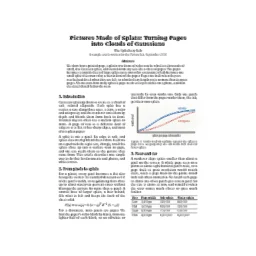
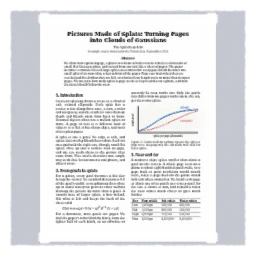
Pictures: a thin gray card behind the Picture lab's picture, the whole box in view, and no blank frames on a sheet swap
- The Picture lab gets a smooth gray card behind its picture (two
  staggered lattices of flat discs): a white page gets an edge on a white
  background, and the toy has splats of its own (kit.spec needs them).
- Its camera starts at 3.2 radii, so a landscape picture fits a phone.
- A sheet that moves to a bigger container keeps the old one on show for
  six frames, while the engine sorts the new splats.
- The phone test runs at twice the pixels and waits for the sort.

Claude-Session: https://claude.ai/code/session_012vWQFKrJXpFPjhzRqN3ZYV

diff --git a/src/packs/pictures.js b/src/packs/pictures.js
@@ -11,6 +11,8 @@ export const RECIPES = {
     // A flat sheet that shows whatever you open, and nothing else. It keeps
     // still (no turntable), facing you.
     turntable: false,
+    // Few splats of its own (the card); the picture's are the sheet's.
+    density: 0.12,
     options: [
       {
         key: "sample",
@@ -63,6 +65,26 @@ export const RECIPES = {
     build(k) {
       LAB.tapN = 0;
       k.sheet({ id: "page", center: [0, 0, 0], width: 2, height: 2, normal: [0, 0, 1] });
+      // A thin gray card behind it, so a white page has an edge on a white
+      // background (and the picture a back): two staggered lattices of flat
+      // discs, like a sheet's paper, so it is smooth with no speckle.
+      const W = 2.08;
+      k.cloud({ share: 1, pattern: false }, (rand, i, n) => {
+        const g = Math.max(8, Math.floor(Math.sqrt(n / 2)));
+        const step = W / g;
+        const second = i >= g * g;
+        const j = second ? i - g * g : i;
+        if (j >= g * g || (second && (j % g === g - 1 || j >= g * (g - 1)))) return null;
+        const off = second ? step : step / 2;
+        return {
+          p: [-W / 2 + off + (j % g) * step, -W / 2 + off + Math.floor(j / g) * step, -0.03],
+          n: [0, 0, 1],
+          flat: 0.05,
+          size: (0.5 * step) / 0.01,
+          color: "#c3c7ce",
+          opacity: 0.99,
+        };
+      });
     },
   },
 };

diff --git a/src/pictures.js b/src/pictures.js
@@ -126,6 +126,7 @@ export class Pictures {
     this.gifTime = 0;
     this.frameDirty = false;
     this.sound = false;
+    this.retiring = []; // sheets swapped for bigger ones, freed a few frames on
     this.stats = { builds: 0, lastMs: 0, lastCount: 0, rendered: [] };
     this.destroyed = false;
     this.api = this.makeAPI();
@@ -278,6 +279,9 @@ export class Pictures {
   // is missing (one at a time) and uploads new video and GIF frames.
   update(out, time) {
     if (this.destroyed) return;
+    for (const r of this.retiring) if (--r.frames <= 0) this.stage.removeSheet(r.slot);
+    this.retiring = this.retiring.filter((r) => r.frames > 0);
+    if (this.retiring.length) this.stage.requestRender(200);
     const m = this.media;
     const now = performance.now();
     for (const sh of this.sheets) {
@@ -493,7 +497,9 @@ export class Pictures {
     if (!st.toy) return;
     let slot = sheet.slot;
     if (!slot || slot.container.maxSplats < data.count) {
-      if (slot) st.removeSheet(slot);
+      // The old sheet stays on show for a few frames: a new container
+      // draws nothing until the engine has sorted it.
+      if (slot) this.retiring.push({ slot, frames: 6 });
       const cap = Math.ceil(data.count * 1.25);
       slot = st.addSheet(this.player.pictureContainer(cap));
       if (!slot) return;

diff --git a/src/toys.js b/src/toys.js
@@ -3102,7 +3102,7 @@ export const TOYS = [
     pack: "pictures",
     labs: true,
     tags: "pdf page document article photo picture image gif video open file",
-    camera: { yaw: 0, pitch: 0, roll: 0, distance: 2.3 },
+    camera: { yaw: 0, pitch: 0, roll: 0, distance: 3.2 },
   },
 ];
 
